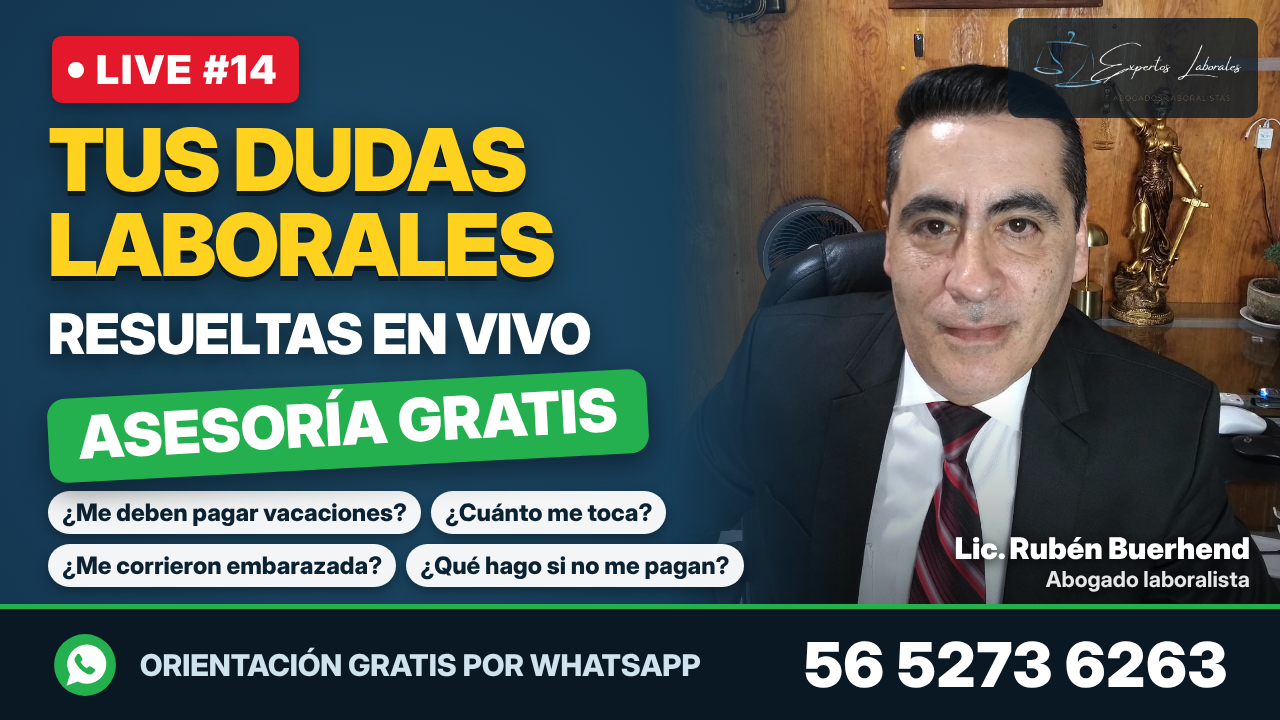
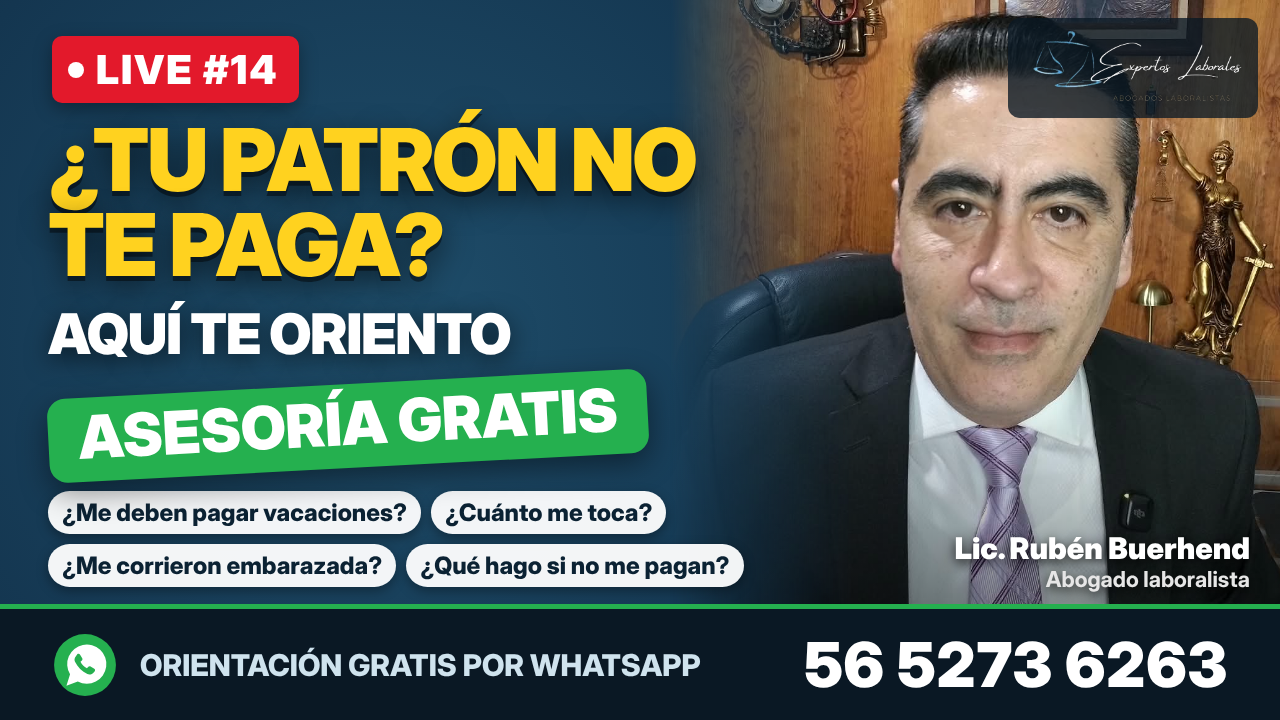
Miniatura LIVE #14 con foto nueva
Claude-Session: https://claude.ai/code/session_01C3deJav44xscTHSyeunJhm

diff --git a/marketing/miniaturas/generar_serie_lives.js b/marketing/miniaturas/generar_serie_lives.js
@@ -10,6 +10,7 @@ const FOTOS={
   azul:{src:'../fotos/ruben_traje_azul.jpg',w:628,l:-12,t:-199},
   gris:{src:'../fotos/ruben_selfie_traje_gris.jpg',w:744,l:-26,t:-264},
   gris2:{src:'../fotos/ruben_selfie_traje_gris2.jpg',w:744,l:10,t:-250},
+  lila:{src:'../fotos/ruben_selfie_corbata_lila.jpg',w:744,l:-20,t:-250},
   selfie:{src:'../fotos/ruben_selfie_cerca_derecha.jpg',w:832,l:-192,t:-264,tapaDerecha:true},
 };
 const COLORES=[['#1f4e6b','#143650','#0b2233'],['#7a1a22','#4a0d14','#24060a'],['#17704a','#0e4a31','#062417'],['#5b3391','#3a1f63','#1b0d31'],['#b85a12','#7a3a0a','#331804'],['#126b78','#0b4650','#042226']];
@@ -33,7 +34,7 @@ const PREGUNTAS=[
 const fs=require('fs'), path=require('path');
 const REG=path.join(__dirname,'registro.json');
 const reg=fs.existsSync(REG)?JSON.parse(fs.readFileSync(REG,'utf8')):{};
-const FOTO_KEYS=['selfie','negro','azul','gris','gris2'];
+const FOTO_KEYS=['selfie','negro','azul','gris','gris2','lila'];
 const DESDE=+(process.argv[3]||1), HASTA=+(process.argv[4]||DESDE);
 function usada(c){return Object.values(reg).some(r=>r.color===c.color&&r.frase===c.frase&&r.preg===c.preg&&r.foto===c.foto);}
 function siguienteCombo(n){

diff --git a/CLAUDE.md b/CLAUDE.md
@@ -99,7 +99,7 @@ documento $49 / curso $299) → se volvieron juicio.
   el usuario avisa cada vez que sube un video -> correr
   `cd marketing/miniaturas && node generar_serie_lives.js "$(pwd)" N`,
   mandarle `live_N.png`, y anotar el video en `registro.json` ("video").**
-  Entregadas #1-#15 (el usuario tenía ~15 lives listos para subir). Foto nueva 'gris' (selfie traje gris-azul, corbata azul, `ruben_selfie_traje_gris_derecha.jpg`, 18 nov 2026, pedido del usuario) -- la #11 se rehízo con ella (versión volteada); desde la #12 el usuario la pidió en el sentido ORIGINAL de la cámara (`ruben_selfie_traje_gris.jpg`) porque la volteada se le veía rara -- por eso redibujar la #11 hoy ya no sale idéntica. 18 nov: el usuario pidió no repetir frases -- se agregaron 5 frases nuevas (índices 3-7) y la #12 usa "CONOCE TUS DERECHOS". 20 nov: foto nueva gris2 (traje gris, corbata gris, `ruben_selfie_traje_gris2.jpg`, sin voltear) y la #13 usa "DEFIENDE TU TRABAJO" (al usuario no le gustó "¿TE CORRIERON?"). El generador elige los componentes MENOS usados y evita repetir color/foto/frase/preguntas con los 2 lives anteriores (la 1a versión solo alternaba azul/rojo, corregido).
+  Entregadas #1-#15 (el usuario tenía ~15 lives listos para subir). Foto nueva 'gris' (selfie traje gris-azul, corbata azul, `ruben_selfie_traje_gris_derecha.jpg`, 18 nov 2026, pedido del usuario) -- la #11 se rehízo con ella (versión volteada); desde la #12 el usuario la pidió en el sentido ORIGINAL de la cámara (`ruben_selfie_traje_gris.jpg`) porque la volteada se le veía rara -- por eso redibujar la #11 hoy ya no sale idéntica. 18 nov: el usuario pidió no repetir frases -- se agregaron 5 frases nuevas (índices 3-7) y la #12 usa "CONOCE TUS DERECHOS". 20 nov: foto nueva gris2 (traje gris, corbata gris, `ruben_selfie_traje_gris2.jpg`, sin voltear) y la #13 usa "DEFIENDE TU TRABAJO" (al usuario no le gustó "¿TE CORRIERON?"). Foto nueva lila (traje negro, corbata lila, `ruben_selfie_corbata_lila.jpg`, sin voltear) en la #14 con frase "¿TU PATRÓN NO TE PAGA?". El generador elige los componentes MENOS usados y evita repetir color/foto/frase/preguntas con los 2 lives anteriores (la 1a versión solo alternaba azul/rojo, corregido).
 - **Métricas de redes** (YouTube/TikTok): `marketing/metricas_redes.md`,
   punto de partida 16 nov 2026 (YouTube @rubenbuerhend: 24 suscriptores, 3
   videos; TikTok: 104.1K seguidores). Agregar fila con cada captura nueva

diff --git a/marketing/miniaturas/registro.md b/marketing/miniaturas/registro.md
@@ -17,5 +17,5 @@ Cada combinación (color + frase + preguntas + foto) se usa una sola vez.
 | 11 | Turquesa | TUS DUDAS LABORALES | Juego 2 | gris | 2026-11-16 | (pendiente) |
 | 12 | Naranja | CONOCE TUS DERECHOS | Juego 3 | gris | 2026-11-16 | (pendiente) |
 | 13 | Rojo | DEFIENDE TU TRABAJO | Juego 1 | gris2 | 2026-11-16 | (pendiente) |
-| 14 | Azul | TUS DUDAS LABORALES | Juego 2 | negro | 2026-11-16 | (pendiente) |
+| 14 | Azul | ¿TU PATRÓN NO TE PAGA? | Juego 2 | lila | 2026-11-16 | (pendiente) |
 | 15 | Morado | PREGÚNTAME LO QUE QUIERAS | Juego 3 | azul | 2026-11-16 | (pendiente) |
